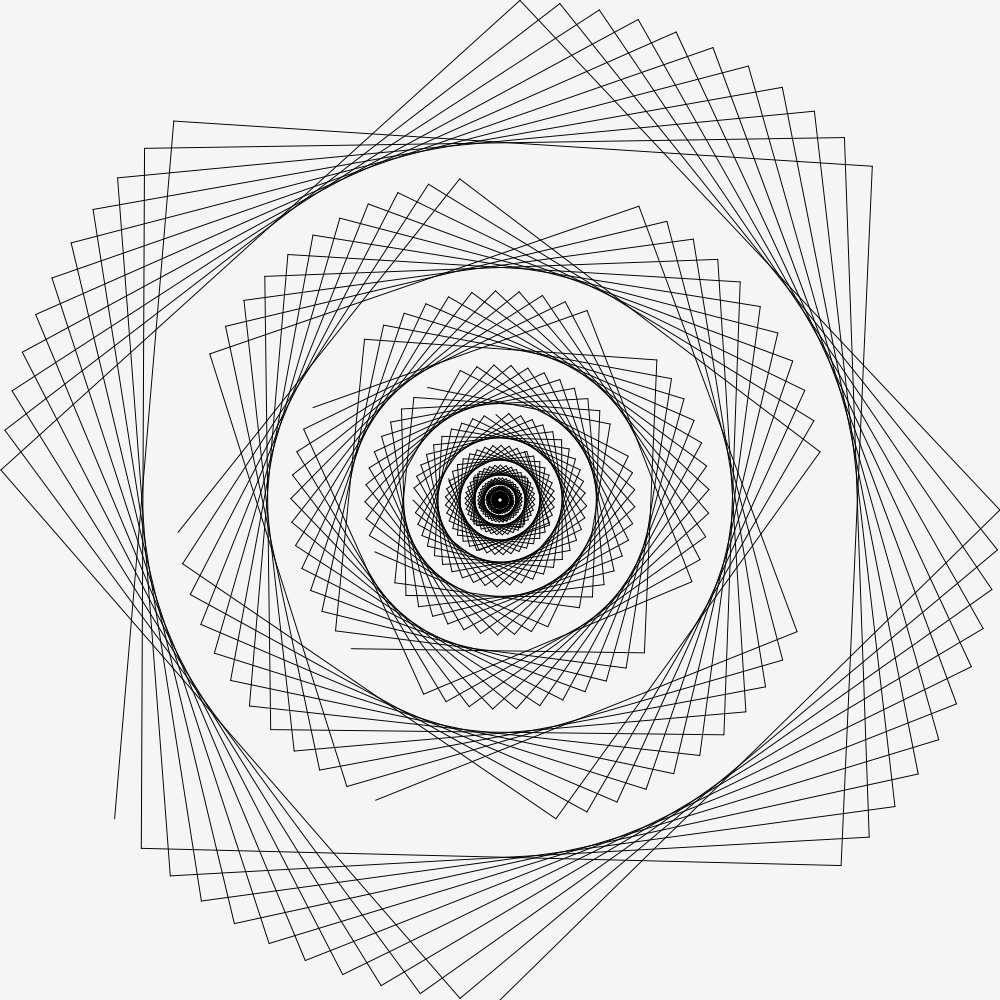
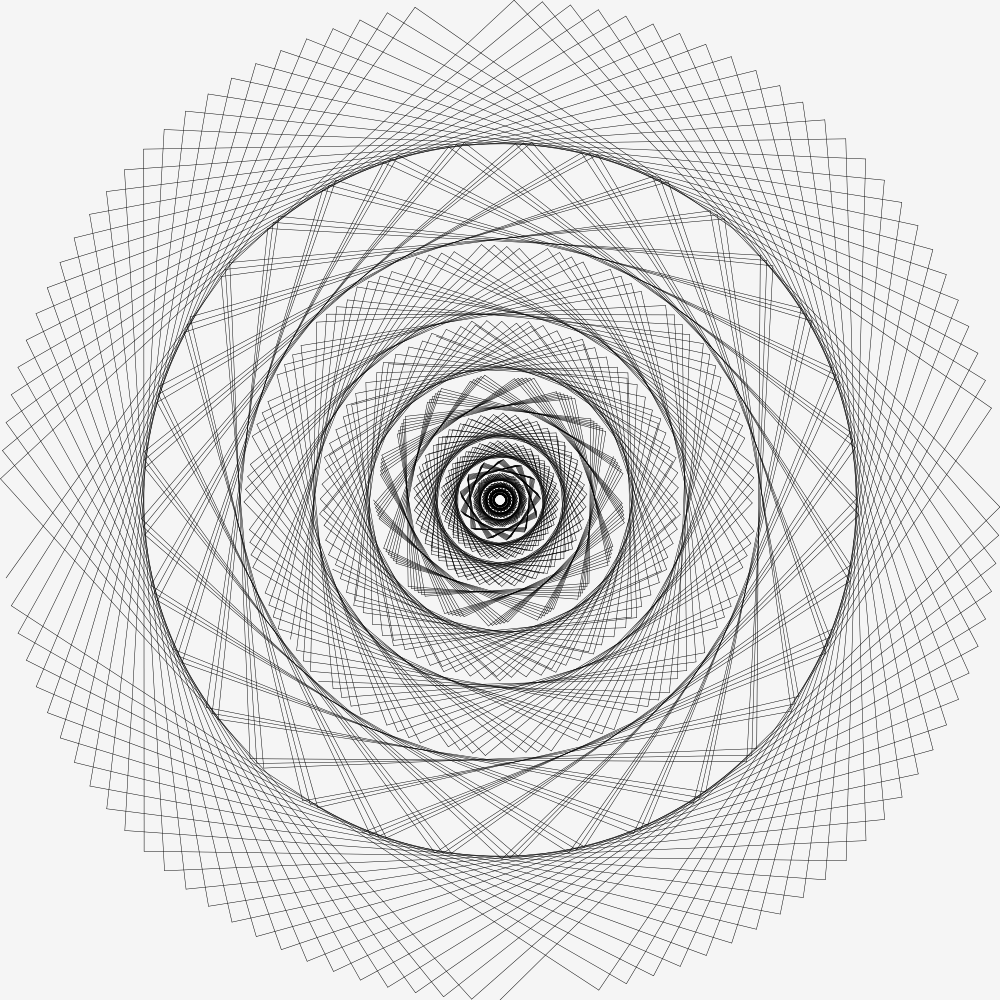
2-19-19 amended

Changed region(s): [[0.0, 0.0, 1.0, 1.0], [0.589, 0.961, 0.62, 0.992]]

diff --git a/2-19-19/2-19-19.go b/2-19-19/2-19-19.go
@@ -65,7 +65,7 @@ func drawCircle(dc *gg.Context, x1, x2 float64, n int, sx, sy float64) {
 	pos2 := pickPointOnCircleWithX(x2)
 
 	dc.MoveTo(pos1.x, pos1.y)
-	dc.SetLineWidth(1)
+	dc.SetLineWidth(0.5)
 	fmt.Println(pos1)
 	for i := 0; i < n; i++ {
 		fmt.Println(pos1, pos2)
@@ -87,10 +87,11 @@ func main() {
 	dc.Clear()
 	dc.SetRGB(0, 0, 0)
 	dc.Translate(500, 500)
+	dc.SetLineWidth(0.1)
 
 	for i := 0; i < 12; i++ {
-		drawCircle(dc, 0, 499.9-.05*float64(i), 44, 1-.0001*float64(i), 1-.0001*float64(i))
-		dc.Scale(0.65, 0.65)
+		drawCircle(dc, 0, 499.95-.5*float64(i), 100, 1-.0001*float64(i), 1-.0001*float64(i))
+		dc.Scale(0.72, 0.72)
 		dc.Rotate(gg.Radians(22.5))
 	}
 
